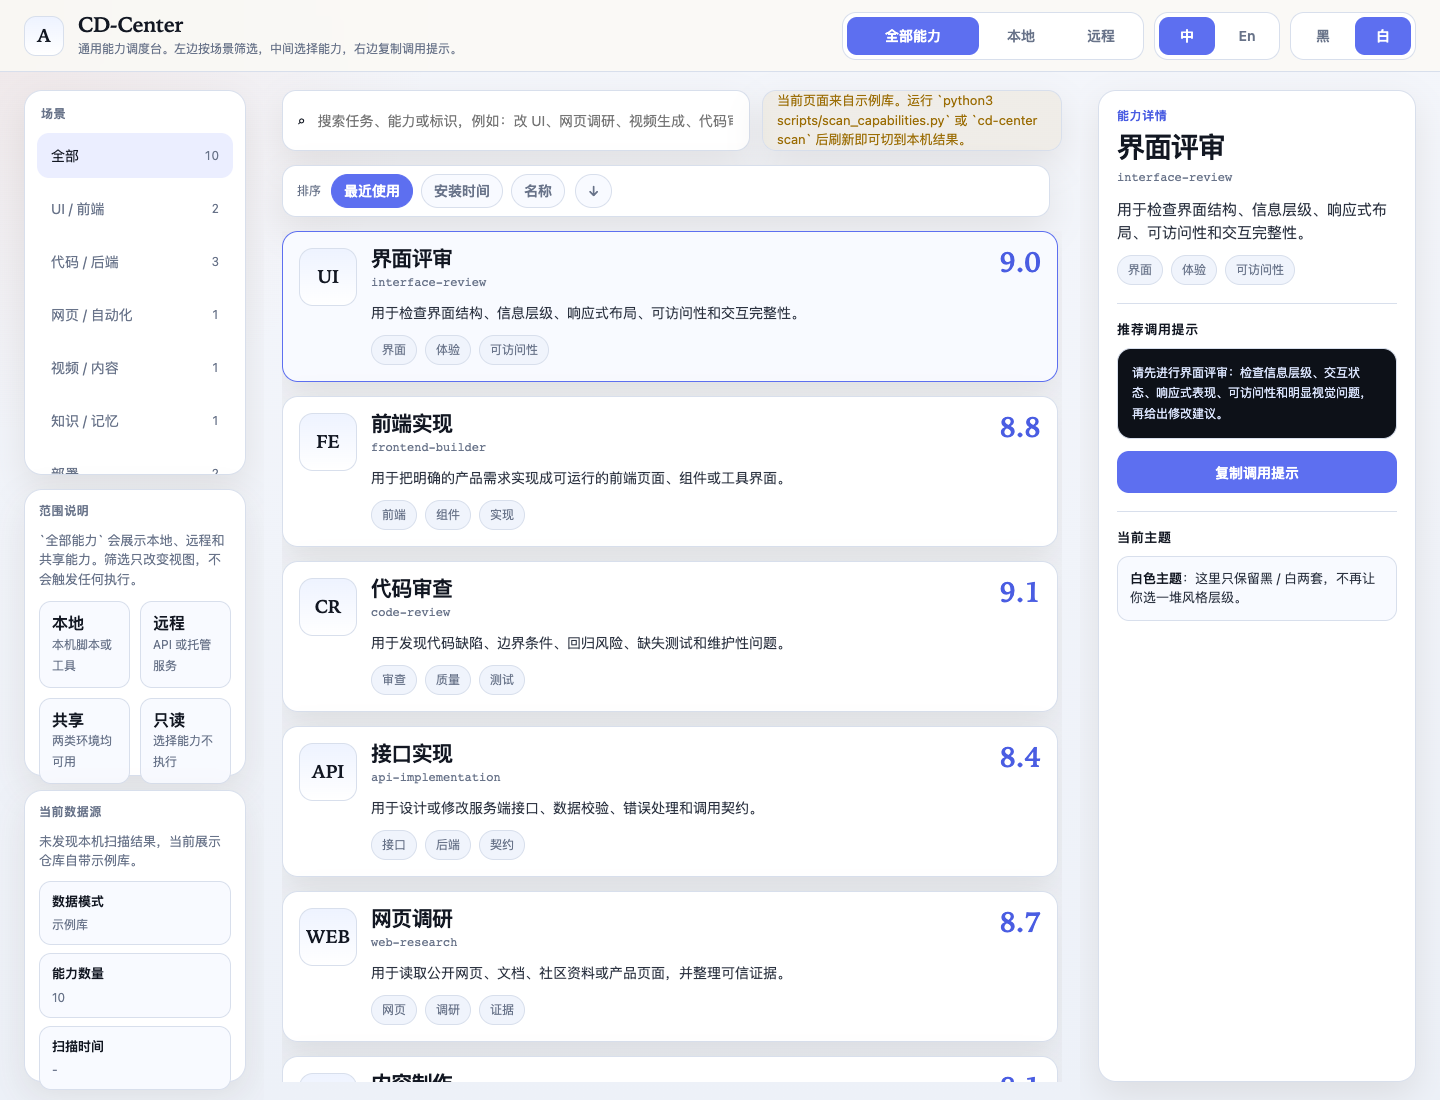
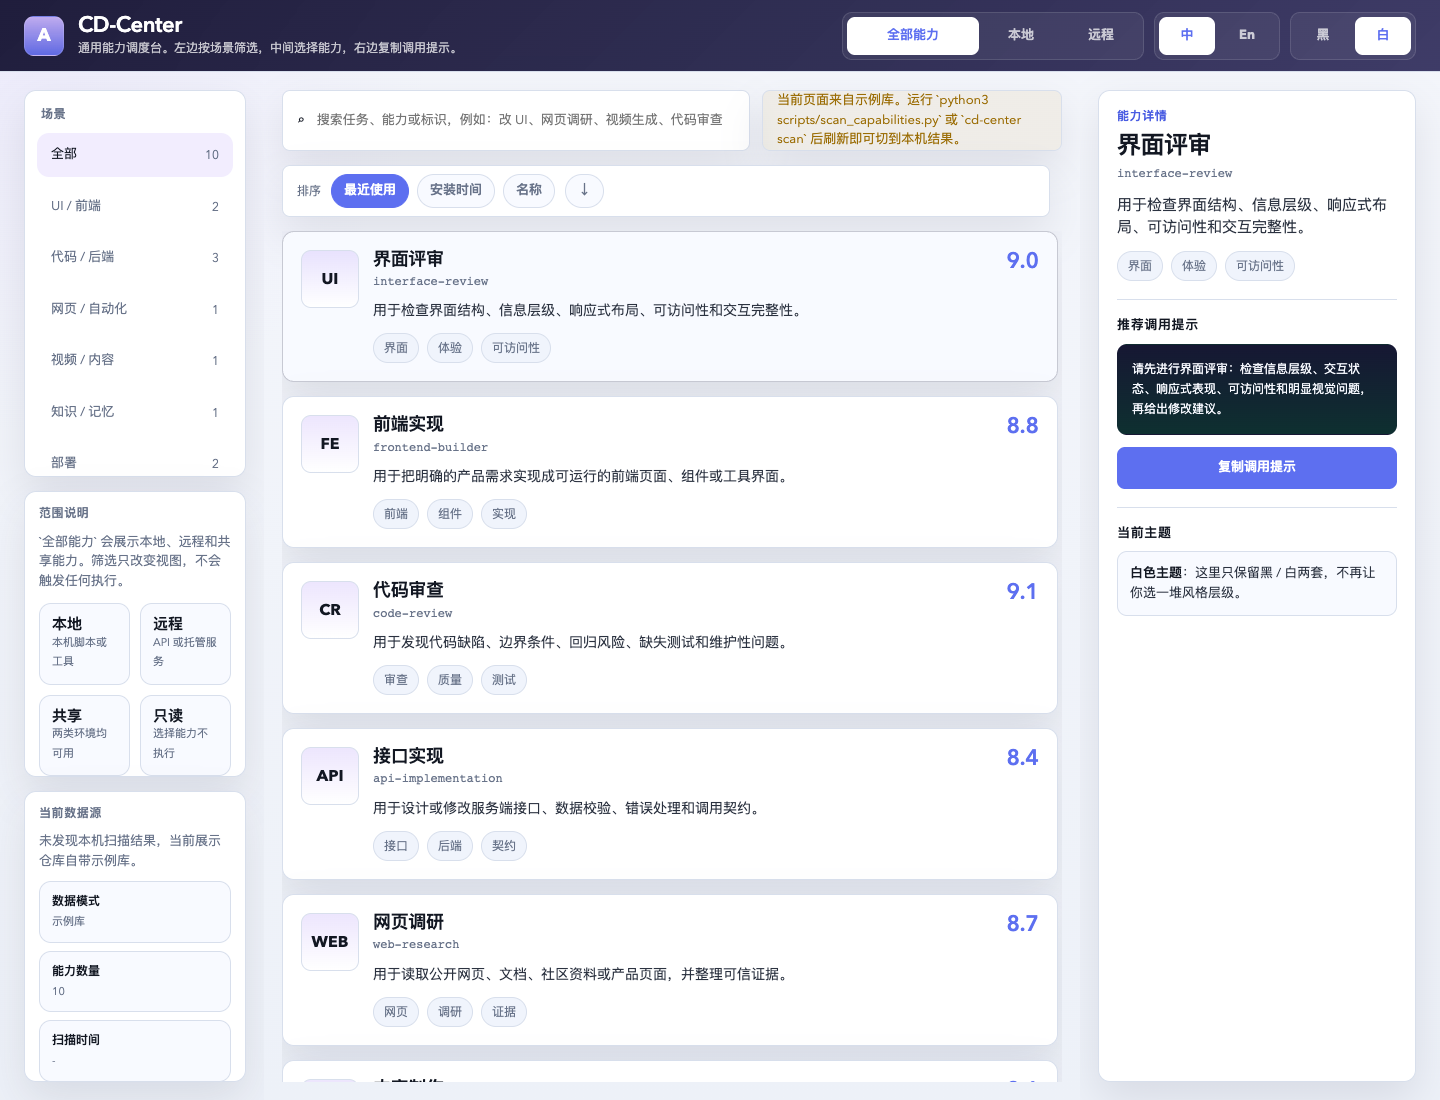
Apply superhuman style and improve design-md discovery

diff --git a/index.html b/index.html
@@ -8,48 +8,48 @@
   <style>
     :root {
       color-scheme: light;
-      --bg: #faf9f5;
-      --bg-2: #f4eee4;
-      --panel: #fffaf3;
-      --panel-2: #f6f0e7;
-      --panel-3: #ece3d7;
-      --ink: #171614;
-      --ink-2: #3d3d3a;
-      --muted: #6c6a64;
-      --line: #e6dfd8;
-      --accent: #cc785c;
-      --accent-2: #a9583e;
-      --chip: #f4ece0;
-      --warn: #b98634;
-      --success: #5db872;
-      --shadow: 0 14px 36px rgba(62, 41, 19, .10);
-      --font-display: "Iowan Old Style", "Palatino Linotype", "Book Antiqua", Georgia, serif;
-      --font-body: "SF Pro Text", "Inter", system-ui, sans-serif;
+      --bg: #f6f7fb;
+      --bg-2: #eef2f9;
+      --panel: rgba(255, 255, 255, 0.96);
+      --panel-2: #fafaf8;
+      --panel-3: #ece7ff;
+      --ink: #292827;
+      --ink-2: #484641;
+      --muted: #73706d;
+      --line: #e8e4dd;
+      --accent: #1b1938;
+      --accent-2: #0e3030;
+      --chip: #f3f0fb;
+      --warn: #8b6431;
+      --success: #0e6660;
+      --shadow: 0 18px 42px rgba(27, 25, 56, .10);
+      --font-display: "Avenir Next", "SF Pro Display", "Segoe UI", sans-serif;
+      --font-body: "Avenir Next", "SF Pro Text", "Segoe UI", sans-serif;
       --font-mono: "SF Mono", "JetBrains Mono", ui-monospace, monospace;
-      --radius-sm: 10px;
-      --radius-md: 14px;
-      --radius-lg: 18px;
+      --radius-sm: 6px;
+      --radius-md: 8px;
+      --radius-lg: 12px;
     }
 
     :root[data-theme="dark"] {
       color-scheme: dark;
-      --bg: #0b0d12;
-      --bg-2: #121621;
-      --panel: #121722;
-      --panel-2: #171d2a;
-      --panel-3: #20283a;
-      --ink: #eef2ff;
-      --ink-2: #d5ddf6;
-      --muted: #8f9bb8;
-      --line: #293244;
-      --accent: #7487ff;
-      --accent-2: #96a7ff;
-      --chip: #1a2130;
-      --warn: #c8a03d;
-      --success: #2bb673;
-      --shadow: 0 16px 44px rgba(0, 0, 0, .28);
-      --font-display: "SF Pro Display", "Inter", system-ui, sans-serif;
-      --font-body: "SF Pro Text", "Inter", system-ui, sans-serif;
+      --bg: #111226;
+      --bg-2: #171938;
+      --panel: rgba(23, 25, 56, 0.92);
+      --panel-2: #1d2143;
+      --panel-3: #2d315d;
+      --ink: #f8f8fb;
+      --ink-2: #d3d0df;
+      --muted: #bcbac9;
+      --line: #3f3a52;
+      --accent: #c9b4fa;
+      --accent-2: #8de0d6;
+      --chip: #262a4d;
+      --warn: #d4ac73;
+      --success: #67c5ba;
+      --shadow: 0 20px 50px rgba(0, 0, 0, .34);
+      --font-display: "Avenir Next", "SF Pro Display", "Segoe UI", sans-serif;
+      --font-body: "Avenir Next", "SF Pro Text", "Segoe UI", sans-serif;
     }
 
     * { box-sizing: border-box; }
@@ -59,10 +59,10 @@
       height: 100vh;
       overflow: hidden;
       background:
-        radial-gradient(circle at top left, rgba(204, 120, 92, .12), transparent 24%),
+        radial-gradient(circle at top left, rgba(201, 180, 250, .18), transparent 24%),
         linear-gradient(180deg, var(--bg) 0%, var(--bg-2) 100%);
       color: var(--ink);
-      font: 14px/1.5 var(--font-body);
+      font: 13px/1.5 var(--font-body);
     }
 
     button,
@@ -93,10 +93,16 @@
       align-items: center;
       padding: 0 24px;
       border-bottom: 1px solid var(--line);
-      background: rgba(250, 249, 245, .88);
+      background:
+        linear-gradient(135deg, rgba(27, 25, 56, .98), rgba(47, 44, 90, .92)),
+        radial-gradient(circle at top left, rgba(201, 180, 250, .22), transparent 30%);
       backdrop-filter: blur(16px);
     }
-    :root[data-theme="dark"] .topbar { background: rgba(10, 12, 18, .82); }
+    :root[data-theme="dark"] .topbar {
+      background:
+        linear-gradient(135deg, rgba(14, 12, 31, .98), rgba(25, 22, 52, .95)),
+        radial-gradient(circle at top left, rgba(201, 180, 250, .18), transparent 28%);
+    }
 
     .brand {
       display: flex;
@@ -110,21 +116,23 @@
       height: 40px;
       display: grid;
       place-items: center;
-      border-radius: 12px;
-      background: linear-gradient(180deg, var(--panel-3), var(--panel));
-      border: 1px solid var(--line);
+      border-radius: 10px;
+      background: linear-gradient(180deg, rgba(201, 180, 250, .94), rgba(106, 118, 255, .85));
+      border: 1px solid rgba(255,255,255,.14);
+      color: #fff;
       font: 700 18px/1 var(--font-display);
     }
 
     .brand h1 {
       margin: 0;
-      font: 600 21px/1.1 var(--font-display);
-      letter-spacing: -.02em;
+      color: #fff;
+      font: 540 22px/1.02 var(--font-display);
+      letter-spacing: -0.02em;
     }
 
     .brand p {
       margin: 3px 0 0;
-      color: var(--muted);
+      color: rgba(255,255,255,.74);
       font-size: 12px;
     }
 
@@ -139,9 +147,9 @@
       display: inline-grid;
       gap: 4px;
       padding: 4px;
-      border: 1px solid var(--line);
-      border-radius: 14px;
-      background: var(--panel);
+      border: 1px solid rgba(255,255,255,.12);
+      border-radius: 10px;
+      background: rgba(255,255,255,.06);
     }
 
     .seg {
@@ -157,9 +165,9 @@
       grid-template-columns: 56px 56px;
       gap: 4px;
       padding: 4px;
-      border: 1px solid var(--line);
-      border-radius: 14px;
-      background: var(--panel);
+      border: 1px solid rgba(255,255,255,.12);
+      border-radius: 10px;
+      background: rgba(255,255,255,.06);
     }
 
     .seg button,
@@ -167,15 +175,22 @@
     .lang-toggle button {
       min-height: 38px;
       border: 0;
-      border-radius: 10px;
+      border-radius: 8px;
       background: transparent;
-      color: var(--muted);
-      font-weight: 600;
+      color: rgba(255,255,255,.72);
+      font-weight: 700;
     }
 
     .seg button.active,
     .theme-toggle button.active,
     .lang-toggle button.active {
+      background: #fff;
+      color: var(--accent);
+    }
+
+    :root[data-theme="dark"] .seg button.active,
+    :root[data-theme="dark"] .theme-toggle button.active,
+    :root[data-theme="dark"] .lang-toggle button.active {
       background: var(--accent);
       color: #fff;
     }
@@ -247,7 +262,7 @@
     }
 
     .scene-btn.active {
-      background: rgba(116, 135, 255, .14);
+      background: rgba(201, 180, 250, .24);
       color: var(--ink);
     }
 
@@ -340,7 +355,7 @@
       background: var(--panel-2);
       border: 1px solid var(--line);
       color: var(--muted);
-      font-weight: 600;
+      font-weight: 700;
     }
 
     .sort-buttons button.active,
@@ -396,8 +411,8 @@
       grid-template-columns: 58px minmax(0, 1fr) auto;
       gap: 14px;
       align-items: start;
-      padding: 16px;
-      border-radius: 16px;
+      padding: 18px;
+      border-radius: 12px;
       border: 1px solid var(--line);
       background: var(--panel);
       box-shadow: var(--shadow);
@@ -406,7 +421,7 @@
 
     .card:hover,
     .card.active {
-      border-color: var(--accent);
+      border-color: rgba(27, 25, 56, .22);
       background: var(--panel-2);
     }
 
@@ -415,16 +430,16 @@
       height: 58px;
       display: grid;
       place-items: center;
-      border-radius: 14px;
-      background: linear-gradient(180deg, var(--panel-3), var(--panel));
+      border-radius: 10px;
+      background: linear-gradient(180deg, rgba(201, 180, 250, .34), rgba(255,255,255,1));
       border: 1px solid var(--line);
-      font: 700 18px/1 var(--font-display);
+      font: 700 16px/1 var(--font-display);
     }
 
     .card h3 {
       margin: 0 0 4px;
-      font: 600 21px/1.08 var(--font-display);
-      letter-spacing: -.03em;
+      font: 540 18px/1.08 var(--font-display);
+      letter-spacing: -0.02em;
     }
 
     .skill-id {
@@ -455,8 +470,8 @@
     }
 
     .score {
-      color: var(--accent-2);
-      font: 600 28px/1 var(--font-display);
+      color: var(--accent);
+      font: 540 22px/1 var(--font-display);
       font-variant-numeric: tabular-nums;
     }
 
@@ -475,8 +490,8 @@
 
     .detail-panel h2 {
       margin: 10px 0 6px;
-      font: 600 28px/1.06 var(--font-display);
-      letter-spacing: -.04em;
+      font: 540 24px/1.05 var(--font-display);
+      letter-spacing: -0.02em;
     }
 
     .detail-id {
@@ -507,10 +522,10 @@
 
     .prompt {
       padding: 14px;
-      border-radius: 14px;
-      border: 1px solid var(--line);
-      background: #0d1118;
-      color: #dce6ff;
+      border-radius: 10px;
+      border: 1px solid rgba(27,25,56,.12);
+      background: linear-gradient(180deg, #161733, #0e3030);
+      color: #f7f9ff;
       font: 12px/1.7 var(--font-mono);
       white-space: pre-wrap;
     }
@@ -520,10 +535,10 @@
       min-height: 42px;
       margin-top: 12px;
       border: 0;
-      border-radius: 12px;
+      border-radius: 8px;
       background: var(--accent);
       color: #fff;
-      font-weight: 600;
+      font-weight: 700;
     }
 
     .copy:hover {
@@ -532,7 +547,7 @@
 
     .style-note {
       padding: 12px;
-      border-radius: 12px;
+      border-radius: 10px;
       background: var(--panel-2);
       border: 1px solid var(--line);
       color: var(--ink-2);